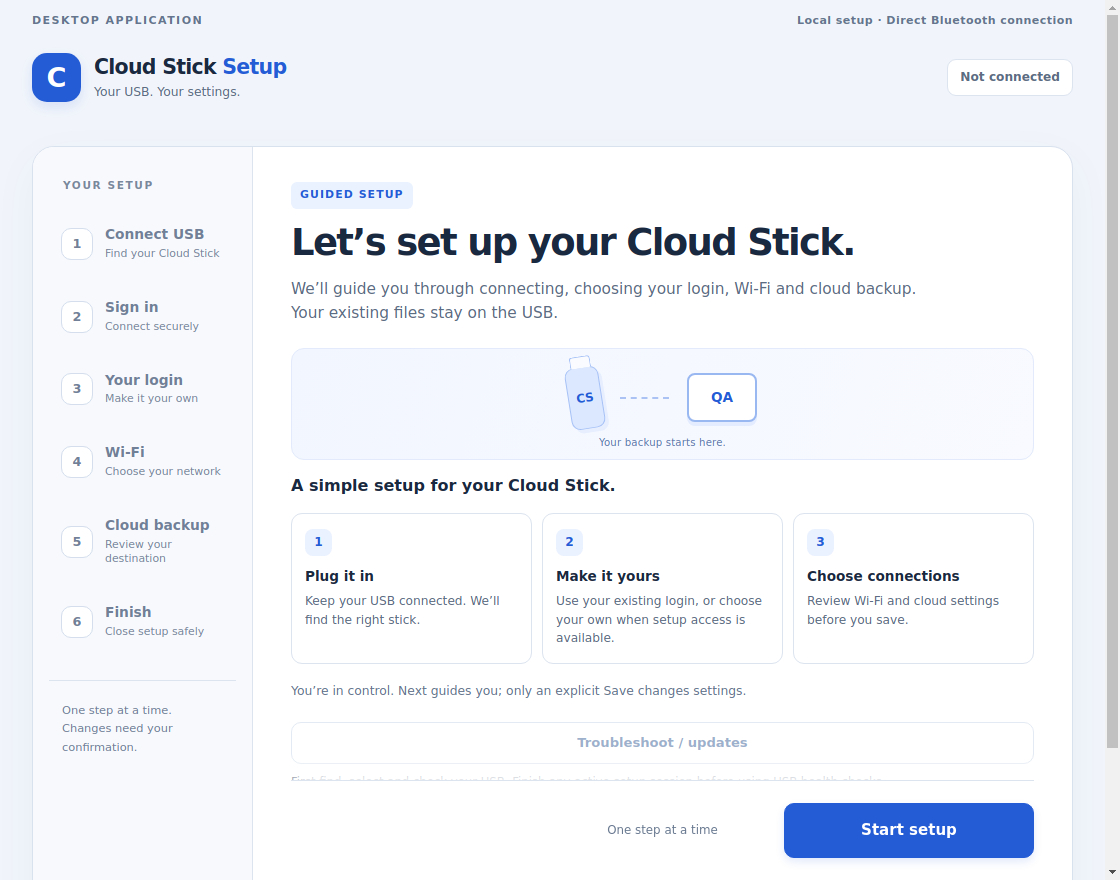
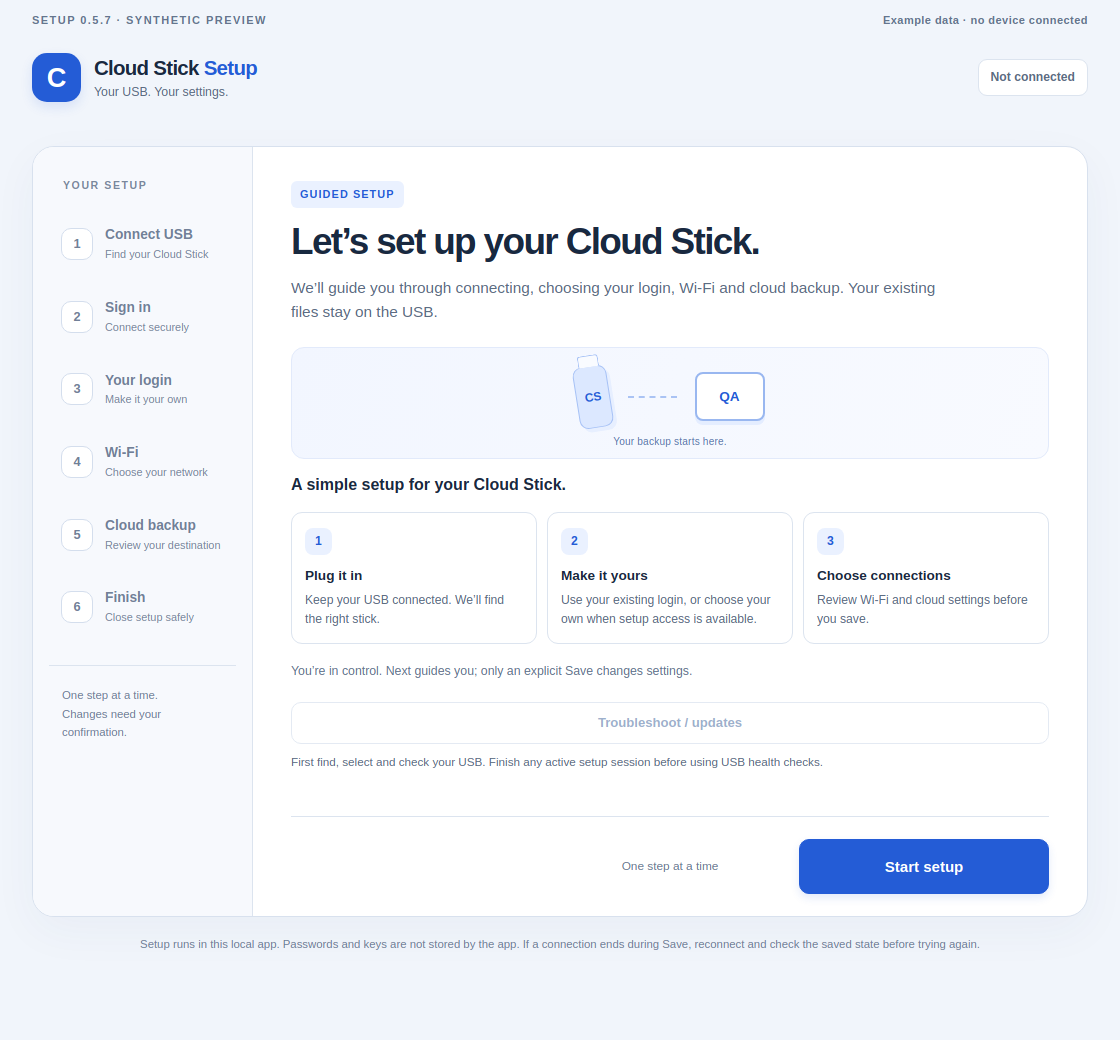
Refresh current preview guides and desktop screenshots

diff --git a/tools/export_public_project.py b/tools/export_public_project.py
@@ -38,7 +38,8 @@ PUBLIC_DOCS = frozenset((
     "docs/releases/2026-11-06-improvements.md",
     "docs/releases/2026-11-06-wifi-fallback.md",
     "docs/releases/2026-11-06-ble-cleanup.md",
-    "docs/images/desktop-setup.png", "docs/images/android-viewer.png",
+    "docs/images/desktop-setup.png", "docs/images/desktop-troubleshoot.png",
+    "docs/images/android-viewer.png",
     "docs/images/lcd-states.png",
 ))
 SKIP_PARTS = frozenset(("artifacts", "build", "dist", ".gradle", ".venv",

diff --git a/README.md b/README.md
@@ -31,15 +31,15 @@ These checks are separate from firmware builds and physical device acceptance.
 
 ## Download the preview
 
-Open [the Wi-Fi fallback preview](https://github.com/rtariq2015/cloud-stick-pro/releases/tag/preview-2026.11.06-wifi)
+Open [the Bluetooth cleanup and diagnostics preview](https://github.com/rtariq2015/cloud-stick-pro/releases/tag/preview-2026.11.07-ble-cache)
 and choose the component you need:
 
 | Download | Supported use |
 | --- | --- |
-| [Linux setup 0.5.4 `.deb`](https://github.com/rtariq2015/cloud-stick-pro/releases/download/preview-2026.11.06-wifi/cloud-stick_0.5.4_amd64.deb) | Ubuntu 24.04 x86-64 / glibc 2.39, or a compatible system |
-| [Linux setup 0.5.4 `.tar.gz`](https://github.com/rtariq2015/cloud-stick-pro/releases/download/preview-2026.11.06-wifi/cloud-stick-0.5.4-linux-x86_64.tar.gz) | Alternative user-local package for the same Linux baseline; choose one Linux package |
+| [Linux setup 0.5.7 `.deb`](https://github.com/rtariq2015/cloud-stick-pro/releases/download/preview-2026.11.07-ble-cache/cloud-stick_0.5.7_amd64.deb) | Ubuntu 24.04 x86-64 / glibc 2.39, or a compatible system |
+| [Linux setup 0.5.7 `.tar.gz`](https://github.com/rtariq2015/cloud-stick-pro/releases/download/preview-2026.11.07-ble-cache/cloud-stick-0.5.7-linux-x86_64.tar.gz) | Alternative user-local package for the same Linux baseline; choose one Linux package |
 | [Android viewer 0.1.2 APK](https://github.com/rtariq2015/cloud-stick-pro/releases/download/preview-2026.11.06/Cloud-Stick-Viewer-0.1.2.apk) | Android 12 or later; exact-version phone acceptance remains pending |
-| [Firmware 0.4.4 app image](https://github.com/rtariq2015/cloud-stick-pro/releases/download/preview-2026.11.06-wifi/cloud-stick-pro-0.4.4-wifi-dev-app.bin) | App-only update for a reviewed existing compatible Pro layout; not a stock-board/factory installer |
+| [Firmware 0.4.6 app image](https://github.com/rtariq2015/cloud-stick-pro/releases/download/preview-2026.11.07-ble-cache/cloud-stick-pro-0.4.6-cache-dev-app.bin) | App-only update for a reviewed existing compatible Pro layout; not a stock-board/factory installer |
 
 Read the release's **INSTALL.md** and compare downloads with **SHA256SUMS** or
 **release-manifest.json**. Installing a desktop or phone app does not update the
@@ -60,7 +60,7 @@ See the [update guide](docs/UPDATING.md) for the steps and remaining test limits
 - **Saved Wi-Fi fallback:** remembers up to eight owner-saved networks and tries
   alternatives after disconnection, while keeping a working link.
 - **Useful status:** LCD phases, progress and rates; a read-only local dashboard;
-  bounded authenticated history and explicit desktop health refresh.
+  bounded authenticated history and **Diagnose my stick** guidance with a safe report export.
 - **Nearby Android viewing:** a bundled, offline interface for recorded backup
   status and up to eight file summaries. No hosted website or Internet permission.
 
@@ -71,11 +71,21 @@ against later cloud deletion or files still held in the computer's memory.
 ## A look at the interfaces
 
 These are **synthetic interface previews**, not photographs or evidence that a
-new candidate passed physical acceptance. They contain no real account or file data.
+new candidate passed physical acceptance. The desktop examples show Setup **0.5.7**
+with fixed synthetic data. Android **0.1.2** and the LCD layouts are unchanged;
+those existing previews remain illustrative. None contains real account or file data.
 
 ### Desktop setup
 
-![Cloud Stick desktop setup preview](docs/images/desktop-setup.png)
+![Cloud Stick Setup 0.5.7 welcome screen, synthetic preview](docs/images/desktop-setup.png)
+
+### Diagnose my stick
+
+Under **Troubleshoot / updates**, choose **Diagnose my stick** after closing setup.
+The example below simulates a cleanup warning to show the explanation and next
+step. It is not the current dongle's status or a failed 0.4.6 hardware trial.
+
+![Setup 0.5.7 troubleshooting, simulated Bluetooth cleanup warning](docs/images/desktop-troubleshoot.png)
 
 ### Android viewer
 
@@ -116,10 +126,15 @@ and the [Android guide](android/README.md) explains the viewer.
 
 | Component | Installed / preserved evidence | Current revision |
 | --- | --- | --- |
-| Dongle firmware | `0.4.1/0.4.2/0.4.3` recovery apps preserved | `0.4.4-wifi-dev` installed; protected app update, Wi-Fi recovery and new PDF/full cloud hash passed |
-| Linux setup | Previous installations preserved | `0.5.4` installed; exact new firmware admission, archive/installed hashes and smoke verified; production source-native USB checks passed; packaged GUI interaction separate |
+| Dongle firmware | `0.4.1/0.4.2/0.4.3` recovery apps preserved | `0.4.6-cache-dev` installed; protected update and two Bluetooth closes passed; service-image cache stress and controlled two-network round trip passed |
+| Linux setup | Previous installations preserved | `0.5.7` installed; Diagnose my stick guidance; packaging, installed hashes and startup verified; packaged-GUI device interaction separate |
 | Android viewer | Earlier APKs preserved; phone baseline separate | `0.1.2`, code 3: modern recorded-results view, signed and verified; exact-version phone acceptance pending |
-| Windows setup | Shared desktop source/build recipe | `0.5.4` recipe updated; native Windows binary/acceptance pending |
+| Windows setup | Shared desktop source/build recipe | `0.5.7` recipe updated; native Windows binary/acceptance pending |
+
+The exact personal authenticated phone **Save Wi-Fi → Finish** flow still needs
+acceptance on 0.4.6. Controlled switching used deliberate local driver drops
+while both access points remained available. No new exact-image cloud upload or
+AP power-off test is claimed. See the [Bluetooth/cache acceptance report](docs/releases/2026-11-06-ble-cleanup.md).
 
 These versions belong to different components. An app installation does not
 update the dongle. The desktop firmware service currently **reviews manifests

diff --git a/docs/RELEASES.md b/docs/RELEASES.md
@@ -3,19 +3,38 @@
 Firmware, desktop and Android have separate version numbers. Installing a desktop
 or phone update does not install firmware on the USB stick.
 
-| Component | Preserved / installed evidence | Latest local revision |
+| Component | Preserved / installed evidence | Current published preview |
 | --- | --- | --- |
-| Firmware | 0.4.1/0.4.2/0.4.3 recovery apps preserved | 0.4.4-wifi-dev installed; protected app update, Wi-Fi recovery and new PDF/full cloud hash passed |
-| Linux desktop | Prior versions preserved | 0.5.4 installed; archives, installed hashes and smoke passed; source-native physical diagnostics passed; packaged-GUI interaction unvalidated |
+| Firmware | 0.4.1/0.4.2/0.4.3 recovery apps preserved | 0.4.6-cache-dev installed; protected update and two Bluetooth closes passed; service-image cache stress and controlled two-network round trip passed |
+| Linux desktop | Prior versions preserved | 0.5.7 installed; Diagnose my stick guidance; archives, installed hashes and startup passed; packaged-GUI device interaction unvalidated |
 | Android viewer | 0.1.0 phone baseline; earlier APKs preserved | 0.1.2, version code 3, signed/verified; exact-version phone acceptance pending |
-| Windows desktop | Shared source/build recipe | 0.5.4 recipe updated; native Windows binary/acceptance pending |
+| Windows desktop | Shared source/build recipe | 0.5.7 recipe updated; native Windows binary/acceptance pending |
 
 The new source work starts from combined suite commit
 `d4ab3bb7bcb16f56f385ff275f36fe27dc6773a9`. The original project remains credited
 to [John / JMcrafter26](https://github.com/JMcrafter26/cloud-stick), baseline
 `27eac0d0f8ceab714cdf7640d50f4c4d57ed7f3d`.
 
-## 2026-11-06 improvement round
+## Current preview — 7 November 2026
+
+[Download the Bluetooth cleanup and diagnostics preview](https://github.com/rtariq2015/cloud-stick-pro/releases/tag/preview-2026.11.07-ble-cache).
+It contains normal firmware **0.4.6-cache-dev**, Linux Setup **0.5.7**, source and
+hashed installation/validation records. Android **0.1.2** stays in the preceding
+`preview-2026.11.06` release.
+
+The normal image passed protected installation and two Bluetooth closes with
+Wi-Fi/backups resuming, five verified files and zero pending/failed or backup
+errors. A private service image separately passed real NVS cache stress and a
+controlled round trip between two distinct saved Wi-Fi networks. That trial
+kept both access points available; it was not an AP power-off test. The exact
+personal authenticated phone Save/Finish flow remains unverified. The lab binary
+is not a download. See the [exact source, hashes and acceptance report](releases/2026-11-06-ble-cleanup.md).
+
+**Diagnose my stick** explains reported cleanup failures, paused backups and
+other local states. The [desktop screenshots](../README.md#a-look-at-the-interfaces)
+use synthetic example data, not hardware evidence.
+
+## Earlier improvement round — 6 November 2026
 
 The focused change is to avoid re-reading every verified file's contents when a
 different file is added. This requires bounded evidence of which physical USB
@@ -46,14 +65,20 @@ Exact build hashes, resource comparisons, tests and remaining acceptance gates
 are in the version-specific report. A screenshot, source test or successful
 compilation must not be labelled physical acceptance of a new image.
 
-Current evidence: [2026-11-06 improvement report](releases/2026-11-06-improvements.md).
+Evidence for that earlier round: [2026-11-06 improvement report](releases/2026-11-06-improvements.md).
 
 ## Ordered history
+
+* [Bluetooth cleanup and diagnostics update](releases/2026-11-06-ble-cleanup.md):
+  firmware `0.4.6-cache-dev`, Linux Setup `0.5.7`, protected normal installation,
+  repeated closure, cache stress and controlled two-network switching; personal
+  authenticated phone Save/Finish remains unverified.
 
 * [Saved Wi-Fi fallback update](releases/2026-11-06-wifi-fallback.md):
   `0.4.4-wifi-dev` and desktop `0.5.4`, guarded build, protected app-only update,
   native health and setup-close Wi-Fi recovery passed. Distinct-network
-  switching remains a separate physical acceptance gate.
+  switching was unvalidated on that image; the later 0.4.6 service trial is
+  recorded separately above.
 
 * [Changelog](../CHANGELOG.md): user-visible changes, newest first.
 * [Public project history](PROJECT_HISTORY.md): ordered, sanitized component milestones and exact source identities.

diff --git a/docs/PROJECT_HISTORY.md b/docs/PROJECT_HISTORY.md
@@ -25,7 +25,26 @@ Firmware, desktop and Android versions are separate.
 | 2026-11-06 | Desktop 0.5.2 firmware admission | `82e5d97282d52da6436a990dcf2d6768110b34e6`; admit exact reviewed 0.4.2 firmware without accepting arbitrary versions |
 | 2026-11-06 | Modern companions and LCD | `c319dadbbe730a96383219c8e39973419d65b028`; desktop 0.5.3, Android 0.1.2 and firmware 0.4.3-ui-dev; unchanged ownership/backup runtime |
 
-## Current Wi-Fi update
+## Current Bluetooth cleanup and diagnostics preview
+
+The [7 November preview](https://github.com/rtariq2015/cloud-stick-pro/releases/tag/preview-2026.11.07-ble-cache)
+records these component identities:
+
+| Component / milestone | Exact source and scope |
+| --- | --- |
+| Timing-only firmware 0.4.5 | `aec31e7709dec9ee1a893a7cd871a109bb26a571`; real authenticated Save/Finish failed its memory proof; no binary download published |
+| Firmware 0.4.6-cache-dev | `adc439bcc69802d289fa79b34f9994f4093d0f83`; protected normal install and two closes passed; separate service image passed cache stress and controlled two-network round trip |
+| Desktop 0.5.7 | `90f632d7ee7d39be4a142aa7b842eddba68f57ab`; Diagnose my stick guidance, native Linux packaging/installed hashes/startup passed |
+| Published source snapshot | `6d78684ffe741cb877c02a1567a83059b53a1f0e`; merged source, acceptance notes and eight hashed preview assets |
+
+Saved revision 9 and all logical NVS values were retained across the encrypted
+checkpoint comparison; the synthetic probe was removed. Backups resumed with
+five verified files and zero errors. Exact personal authenticated phone Save/Finish,
+actual AP outage, new exact-image upload/hash and packaged-GUI hardware acceptance
+remain unverified. Read the [detailed report](releases/2026-11-06-ble-cleanup.md)
+for the startup precondition failure, measurements and limits.
+
+## Earlier Wi-Fi update — 0.4.4
 
 Firmware **0.4.4-wifi-dev** comes from `d5d5f985e54b365b8441eb6e48392acf37288879`.
 Desktop **0.5.4** comes from `eadf54f041dfd64e57f25972f3fc3181a0eb719c`. The
@@ -34,7 +53,7 @@ verification and installed native health passed. A setup-close cycle reconnected
 Wi-Fi and resumed the worker. One new 2 MiB PDF passed automatic backup and an
 independent full TLS cloud hash; final status showed five verified/zero errors.
 Desktop archive/installed hashes and smoke passed.
-Distinct-network physical failover remains unvalidated; see the
+Distinct-network physical failover was unvalidated on that image; see the
 [Wi-Fi update report](releases/2026-11-06-wifi-fallback.md).
 
 ## Earlier installed acceptance (0.4.2 / 0.4.3)
@@ -76,5 +95,7 @@ Original notices and component licenses remain with the source.
 ELF/map debug products and private operator evidence remain developer-local;
 they are not silently rewritten into a supposedly identical public artifact.
 App images and their pinned identities are unchanged by documentation curation.
-The upstream license-text gap still blocks publishing firmware/application
-source or binaries; see [Credits](CREDITS.md#upstream-license-evidence).
+Development source and preview binaries are published with the unresolved
+upstream license evidence and retained component notices. Publication does not
+resolve the missing grant or replace binary packaging/acceptance gates; see
+[Credits](CREDITS.md#upstream-license-evidence).

diff --git a/docs/GETTING_STARTED.md b/docs/GETTING_STARTED.md
@@ -70,8 +70,11 @@ different network keeps the earlier entries. After setup closes, the dongle can
 try another enabled saved network if its current Wi-Fi disconnects; it keeps a
 working connection rather than switching just because another network appears.
 There can be a delay while a connection attempt times out. The
-[0.4.4 update](releases/2026-11-06-wifi-fallback.md) improves retry order
-when several saved networks are unavailable. Desktop 0.5.4 recognizes this firmware.
+[0.4.4 update](releases/2026-11-06-wifi-fallback.md) introduced fair retry order.
+The current [0.4.6 update](releases/2026-11-06-ble-cleanup.md), supported by Setup
+0.5.7, passed controlled switching between two saved networks and back. Both
+access points stayed on; real AP outages and the exact personal phone Save/Finish
+flow remain separate acceptance steps.
 The Android viewer does not add Wi-Fi credentials.
 
 Some libraries, workplaces and cafés use an open network followed by a website
@@ -97,6 +100,12 @@ Use **Finish** or the interface's disconnect action to close the Bluetooth setup
 session. Keep the dongle physically plugged in. The backup worker can resume
 after radio/setup cleanup succeeds.
 
+If the display reports **BLE needs review**, open **Troubleshoot / updates →
+Diagnose my stick** in Setup 0.5.7 after disconnecting setup. It explains the
+reported state and a next step. If the warning remains, use **Copy safe diagnostic
+JSON** for review and keep the dongle connected. Do not repeatedly re-save Wi-Fi
+or reset settings to clear the warning.
+
 Copy a small disposable text or PDF file into the configured watched folder
 (`QA` by default), finish the copy and wait. The default quiet period is two
 minutes without USB writes; a saved overnight schedule can defer the pass.
@@ -114,7 +123,7 @@ before trusting a new image with important files.
 | --- | --- | --- |
 | Dongle LCD | Look at the connected dongle | Current phase, counts, measured rates and waiting/fault state |
 | Local dashboard | Open the current HTTP address shown on the LCD, from the same reachable network | Read-only device status and recorded backup counts; enter no credentials here |
-| Desktop app | Open the status/records view, or explicitly refresh health under Troubleshoot | Authenticated bounded records or a typed USB health snapshot, depending on the view |
+| Desktop app | Open the status/records view, or choose Diagnose my stick under Troubleshoot / updates | Authenticated bounded records or a typed USB health snapshot, depending on the view |
 | Android viewer | Open a setup window, sign in with your personal login and explicitly select your nearby dongle | Recorded status and up to eight saved file summaries |
 
 The Android interface is bundled in the app and needs no hosted website or

diff --git a/docs/CANONICAL_PROJECT.md b/docs/CANONICAL_PROJECT.md
@@ -19,7 +19,7 @@ from public packages.
 | android/ | Local Android viewer, tests and APK build recipe |
 | docs/ | User/developer guides, credits and ordered release notes |
 | test/, tools/ | Firmware/native regressions, guarded build and source-export tools |
-| releases/2026-11-06-current/ | Local installers, app images and sanitized review evidence; ignored by Git |
+| releases/2026-11-07-ble-cache/ | Local installers, app images and sanitized review evidence; ignored by Git |
 
 The releases folder remains visible in VS Code but is excluded from source searches and file watching. Original development worktrees and recovery material are preserved separately; they are not a second active source tree.
 
@@ -35,8 +35,9 @@ The setup inspection found a session sandbox that denied DNS sockets. A GitHub
 DNS error there does not establish a machine-wide DNS fault, and installing
 GitHub CLI cannot remove that session restriction. Check terminal connectivity
 and authentication in a normal VS Code terminal before relying on terminal
-pushes. A connected GitHub account and a terminal credential helper are separate
-authentication paths. Never print tokens or embed them in a Git remote.
+pushes. Subsequent reviewed development-branch and preview-tag terminal pushes
+succeeded, and their PRs were merged with CI passing. A connected GitHub account
+and a terminal credential helper are separate authentication paths. Never print tokens or embed them in a Git remote.
 
 On this computer, the Snap launcher failed under that confined session, while
 the installed CLI worked using `/snap/code/current/usr/share/code/bin/code`
@@ -51,7 +52,7 @@ website; enabling Pages requires a separate explicit decision.
 
 Opening this workspace does not download dependencies, rebuild firmware or alter the device. Dependencies and private configuration belong outside the source snapshot or in ignored local build directories.
 
-The ordinary PlatformIO default profile is a separate BLE-disabled, incremental-cache-disabled build. It is not the reviewed product image currently used on the dongle. Do not select the default profile and assume it reproduces the installed 0.4.4-wifi-dev release.
+The ordinary PlatformIO default profile is a separate BLE-disabled, incremental-cache-disabled build. It is not the reviewed product image currently used on the dongle. Do not select the default profile and assume it reproduces the installed 0.4.6-cache-dev release.
 
 The reviewed product profile uses custom SDK memory settings, pinned libraries/compilers and frozen reference files. The guarded builder currently retains machine-local dependency paths outside this project. Moving the source does not migrate those caches. Current firmware and desktop builds do not require the old private Git history.
 

diff --git a/docs/UPDATING.md b/docs/UPDATING.md
@@ -12,15 +12,15 @@ notifications.
 The public repository contains the complete reviewed development source: firmware,
 Linux/Windows setup app, Android viewer, tests, guides and maintenance tooling.
 Use **Code → Download ZIP** for the source, or `git pull` to update an existing
-checkout. [Preview 2026.11.06](https://github.com/rtariq2015/cloud-stick-pro/releases/tag/preview-2026.11.06-wifi)
+checkout. [Preview 2026.11.07](https://github.com/rtariq2015/cloud-stick-pro/releases/tag/preview-2026.11.07-ble-cache)
 provides these separate downloads:
 
 | Component | File and compatibility |
 | --- | --- |
-| Linux setup **0.5.4** | `.deb`, or alternative `.tar.gz` user package; Ubuntu 24.04 x86-64 / glibc 2.39 or compatible |
+| Linux setup **0.5.7** | `.deb`, or alternative `.tar.gz` user package; Ubuntu 24.04 x86-64 / glibc 2.39 or compatible |
 | Android viewer **0.1.2** | Signed APK for Android 12+; exact-version physical phone acceptance is pending |
-| Firmware **0.4.4-wifi-dev** | App-only `.bin` for a reviewed existing compatible Pro layout; not a factory installer |
-| Windows **0.5.4** | Shared source/build recipe only; no native Windows executable download |
+| Firmware **0.4.6-cache-dev** | App-only `.bin` for a reviewed existing compatible Pro layout; not a factory installer |
+| Windows **0.5.7** | Shared source/build recipe only; no native Windows executable download |
 
 Android 0.1.2 remains in the preceding `preview-2026.11.06` release.
 
@@ -36,9 +36,14 @@ GitHub's source ZIP is the project source, not an installer. Building the guarde
 product firmware still needs the pinned SDK inputs described in the developer
 guide. A source download does not install anything on your dongle.
 
+The latest [acceptance report](releases/2026-11-06-ble-cleanup.md) separates normal
+firmware checks from private service-image tests. Bluetooth closure and controlled
+switching between two saved networks passed; the exact personal phone Save/Finish
+flow remains unverified. The service image is never an update download.
+
 ## Install or update a preview component
 
-1. Open [Wi-Fi fallback preview](https://github.com/rtariq2015/cloud-stick-pro/releases/tag/preview-2026.11.06-wifi)
+1. Open [Bluetooth cleanup and diagnostics preview](https://github.com/rtariq2015/cloud-stick-pro/releases/tag/preview-2026.11.07-ble-cache)
    and read **INSTALL.md** and the known-limit notes. A prerelease is a test
    candidate. There is no stable binary release yet.
 2. Pick the package for your component and operating system. The firmware target

diff --git a/docs/RELEASE_NOTES.md b/docs/RELEASE_NOTES.md
@@ -126,11 +126,15 @@ or cloud-account access is configured. These checks cover the public preview,
 not the held product source or physical hardware. See [Updates](UPDATING.md) and
 [Maintenance](MAINTENANCE.md).
 
-Firmware and companion binaries are unchanged in this maintenance update.
-Derived source/installers remain local pending the existing upstream license-text
-clarification. The public repository is not yet an installable product release.
+At that maintenance-only milestone, firmware and companion binaries were
+unchanged and derived installers were still held locally. Later development
+source and preview publication are recorded above; the unresolved upstream
+license evidence and component notices remain preserved.
 
-Cloud Stick Pro now has a dedicated source project and VS Code workspace, with firmware, Linux/Windows app sources, Android app source, tests and guides together. Its Git origin is this repository. The source remains local while the documented upstream license grant text is clarified; this public repository contains the overview, notes and synthetic previews.
+Cloud Stick Pro has a dedicated source project and VS Code workspace, with
+firmware, Linux/Windows app sources, Android app source, tests and guides together.
+Its Git origin is this repository. Current reviewed source and preview downloads
+are published separately from the historical local-only milestone.
 
 ## Earlier component round (0.4.3 / 0.5.3)
 

diff --git a/docs/MAINTENANCE.md b/docs/MAINTENANCE.md
@@ -13,6 +13,7 @@ give an AI agent continuous access to the dongle or automatically fix bugs.
 | Dependabot for GitHub Actions | Weekly | Proposes updates to the SHA-pinned workflow action; never merges or releases them automatically |
 | Companion interface tests | Main push, pull request, manual and weekly | Runs desktop and Android JavaScript tests without a USB or phone |
 | Saved Wi-Fi policy | Main push, pull request, manual and weekly | Compiles historical, disabled and fair-retry native policy checks with sanitizers; simulates connection timing without hardware |
+| NVS cache cleanup | Main push, pull request, manual and weekly | Tests cleanup and service-fixture sources with synthetic SDK/flash, plus actual feature-header admission; no hardware access |
 
 The upstream monitor uses two fixed HTTPS GitHub API endpoints, finite timeouts,
 bounded response sizes, no credentials and no redirects. Network/API failure is

diff --git a/desktop/README.md b/desktop/README.md
@@ -15,7 +15,7 @@ USB owner setup and diagnostics accept only the reviewed `0.4.1-setup-dev` and
 `0.4.2-incremental-dev`, `0.4.3-ui-dev`, `0.4.4-wifi-dev`, `0.4.5-ble-dev` and `0.4.6-cache-dev` firmware profiles. Other versions remain blocked.
 
 After finding, selecting and checking the USB, choose **Troubleshoot / updates**
-for an explicit **Refresh health**. Finish active setup first. The screen reads
+for an explicit **Diagnose my stick** check. Finish active setup first. The screen reads
 one sequential local snapshot: Wi-Fi and owner state, recorded backup counts,
 errors, memory, uptime and local dashboard address. It does not start an upload,
 contact Koofr or inspect microSD files. Safe diagnostic JSON excludes addresses,

diff --git a/CHANGELOG.md b/CHANGELOG.md
@@ -1,5 +1,14 @@
 # Changelog
 
+## 2026-11-07 — current preview guides and screenshots
+
+- Update current download links and version tables to firmware 0.4.6 and Setup
+  0.5.7, and explain Diagnose my stick in the getting-started guide.
+- Refresh the desktop welcome preview and add a clearly labelled synthetic
+  troubleshooting screenshot. Android and LCD previews are unchanged.
+- Preserve historical release identities and the separate hardware-test limits.
+  This documentation refresh does not change application or firmware binaries.
+
 ## 2026-11-07 — physical cache and reconnect milestone
 
 - The private service image passed real NVS cache churn, repeated Bluetooth
